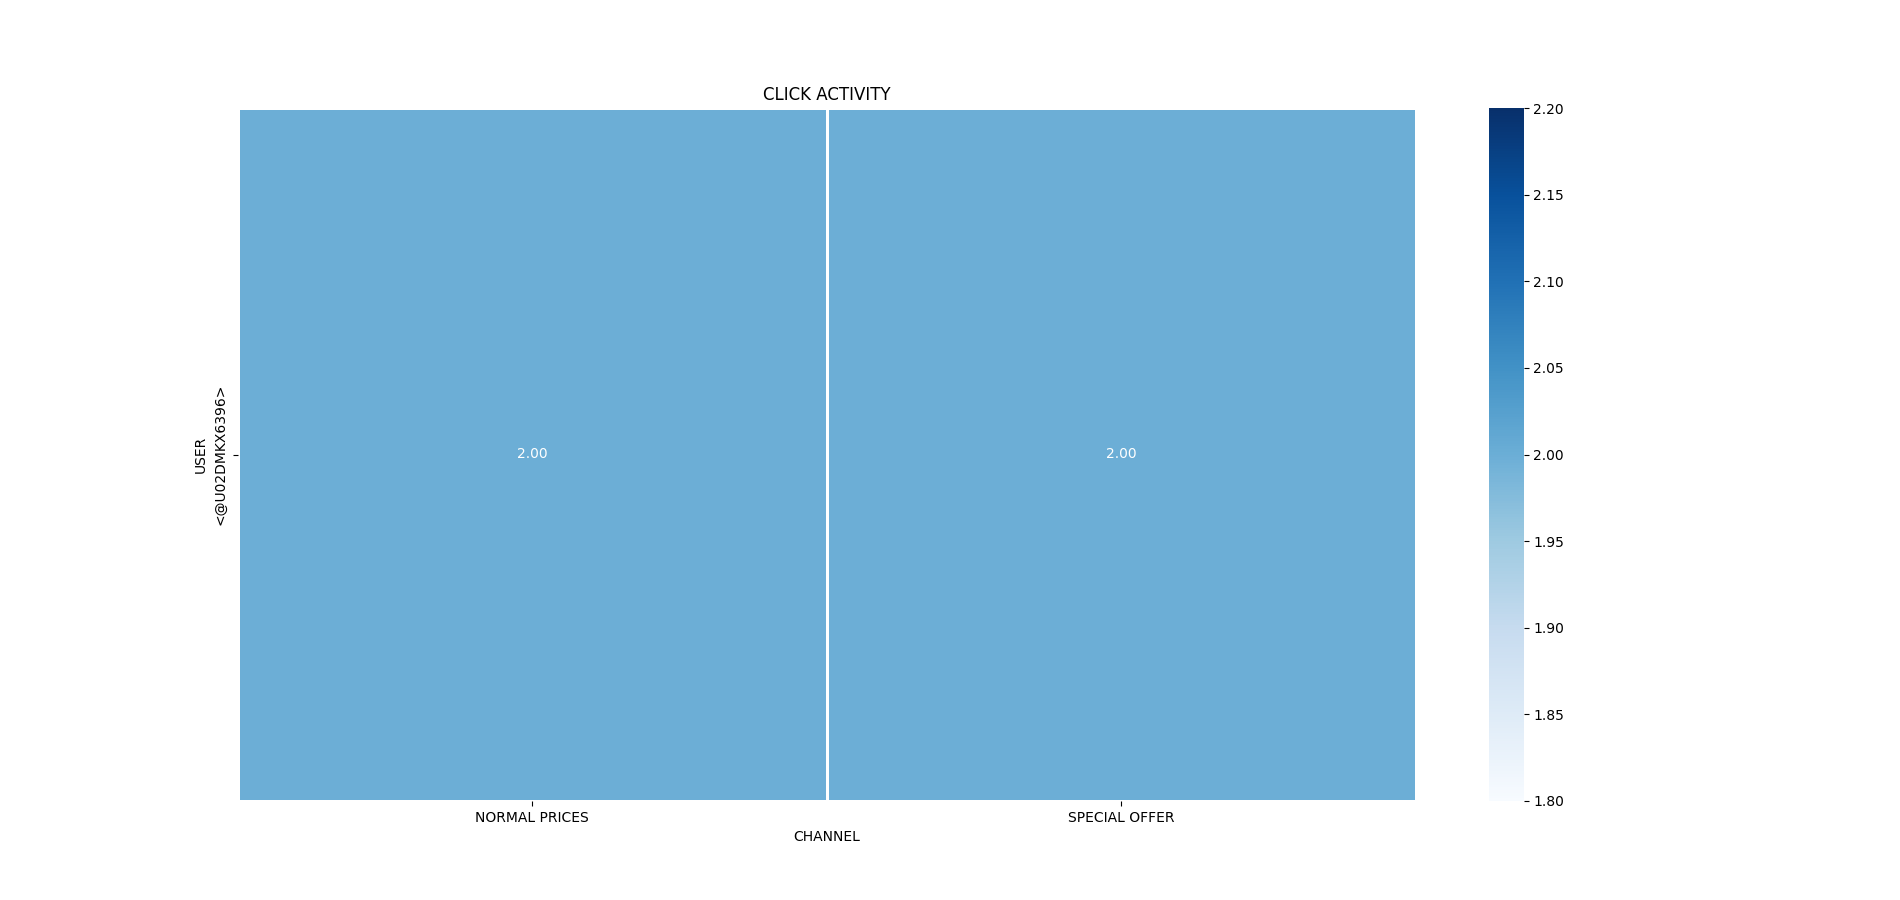
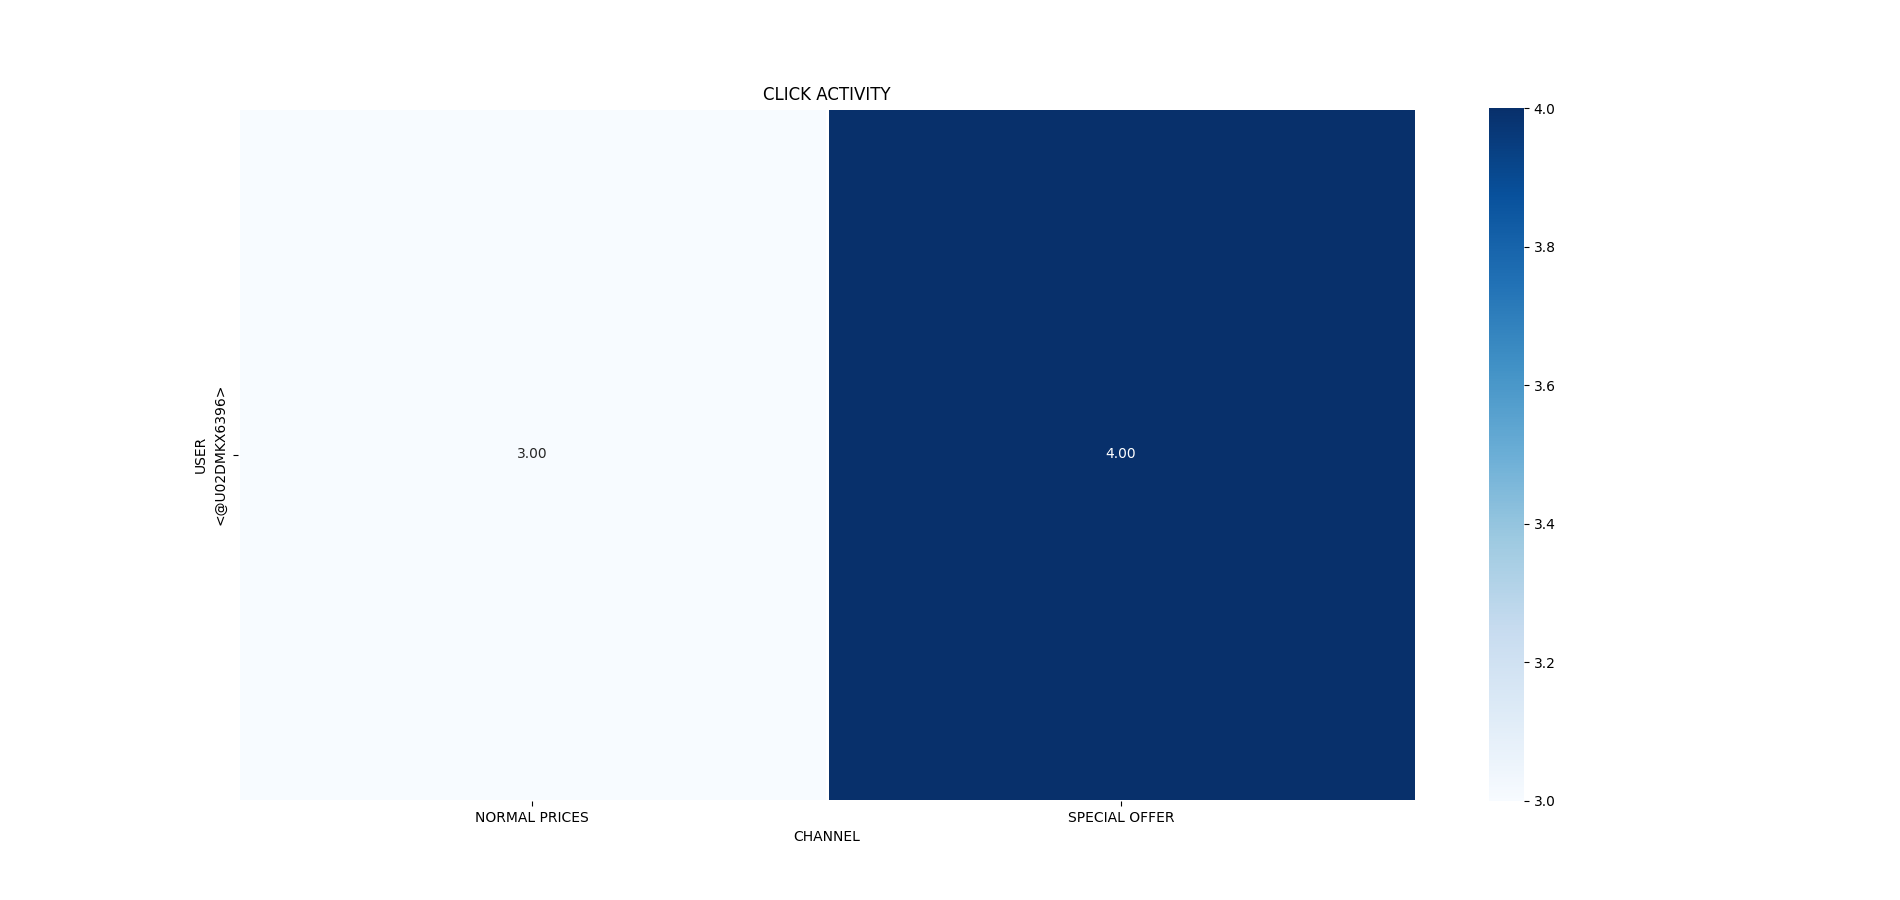
@Ioannis E. Kommas

diff --git a/main.py b/main.py
@@ -85,10 +85,6 @@ def handle_submission(ack, body, client, view, logger, ):
     try:
         # get user name
         user_info = slack_getters.get_modal_user_details(body, client)
-        start_process_time_modal_button_triggered_barcode_generator = time.process_time()
-        start_performance_time_modal_button_triggered_barcode_generator = time.perf_counter()
-        print(
-            f"🟢 Button Triggered on Home Page: Barcode Generator 💭 || By: {user_info['user']['profile'].get('display_name')} || TimeStamp: {datetime.now().strftime('%d/%m/%y %H:%M:%S')}")
         logger.info(body)
         # get keys from modal
         key = view['state'].get('values').keys()
@@ -142,19 +138,14 @@ def handle_submission(ack, body, client, view, logger, ):
         logger.error(f"Error responding to 'first_button' button click: {e}")
         print(f"⭕ Error on Home Page: Barcode Generator Button 💭")
     finally:
+        # write data to sql
         user_id = f"<@{user_info['user'].get('id')}>"
         channel_id = "NORMAL PRICES"
         data_tuple = (user_id, channel_id)
         sql3_conn.insert_user_activity(data_tuple)
-        stop_process_time_modal_button_triggered_barcode_generator = time.process_time()
-        stop_performance_time_modal_button_triggered_barcode_generator = time.perf_counter()
-        final_process_time_modal_button_triggered_barcode_generator = stop_process_time_modal_button_triggered_barcode_generator - start_process_time_modal_button_triggered_barcode_generator
-        final_performance_time_modal_button_triggered_barcode_generator = stop_performance_time_modal_button_triggered_barcode_generator - start_performance_time_modal_button_triggered_barcode_generator
-        print(
-            f"🎉 END OF: Barcode Generator 💭 || By: {user_info['user']['profile'].get('display_name')} || TimeStamp: {datetime.now().strftime('%d/%m/%y %H:%M:%S')}")
-        print(
-            f"⌛ Performance Time: {round(final_performance_time_modal_button_triggered_barcode_generator, 2)} sec || Process Time: {round(final_process_time_modal_button_triggered_barcode_generator, 2)}")
 
+        # refresh home page
+        slack_getters.refresh_home_page(client, user_info)
 
 @app.view("modal_button_triggered_initialize_sql_settings")
 def handle_submission(ack, body, client, view, logger, ):
@@ -162,10 +153,6 @@ def handle_submission(ack, body, client, view, logger, ):
     try:
         # get user_name
         user_info_initialize_sql = slack_getters.get_modal_user_details(body, client)
-        start_process_time_modal_button_triggered_initialize_sql = time.process_time()
-        start_performance_time_modal_button_triggered_initialize_sql = time.perf_counter()
-        print(
-            f"🟢 Button Triggered on Home Page: Initialize SQL Settings 💭 || By: {user_info_initialize_sql['user']['profile'].get('display_name')} || TimeStamp: {datetime.now().strftime('%d/%m/%y %H:%M:%S')}")
         logger.info(body)
 
         # get keys from modal
@@ -196,15 +183,9 @@ def handle_submission(ack, body, client, view, logger, ):
         logger.error(f"Error responding to 'first_button' button click: {e}")
         print(f"⭕ Error on Home Page: Initialize SQL Settings 💭")
     finally:
-        stop_process_time_modal_button_triggered_initialize_sql = time.process_time()
-        stop_performance_time_modal_button_triggered_initialize_sql = time.perf_counter()
-        final_process_time_modal_button_triggered_initialize_sql = stop_process_time_modal_button_triggered_initialize_sql - start_process_time_modal_button_triggered_initialize_sql
-        final_performance_time_modal_button_triggered_initialize_sql = stop_performance_time_modal_button_triggered_initialize_sql - start_performance_time_modal_button_triggered_initialize_sql
-        print(
-            f"🎉 END OF: Initialize SQL Settings 💭 || By: {user_info_initialize_sql['user']['profile'].get('display_name')} || TimeStamp: {datetime.now().strftime('%d/%m/%y %H:%M:%S')}")
-        print(
-            f"⌛ Performance Time: {round(final_performance_time_modal_button_triggered_initialize_sql, 2)} sec || Process Time: {round(final_process_time_modal_button_triggered_initialize_sql, 2)}")
 
+        # refresh home page
+        slack_getters.refresh_home_page(client, user_info_initialize_sql)
 
 @app.view("modal_button_triggered_special_offer")
 def handle_submission(ack, body, client, view, logger, ):
@@ -212,10 +193,6 @@ def handle_submission(ack, body, client, view, logger, ):
     try:
         # get user_name
         user_info_special_offer = slack_getters.get_modal_user_details(body, client)
-        start_process_time_modal_button_triggered_special_offer = time.process_time()
-        start_performance_time_modal_button_triggered_special_offer = time.perf_counter()
-        print(
-            f"🟢 Button Triggered on Home Page: Special Offer 💭 || By: {user_info_special_offer['user']['profile'].get('display_name')} || TimeStamp: {datetime.now().strftime('%d/%m/%y %H:%M:%S')}")
         logger.info(body)
 
         # get keys from modal
@@ -249,18 +226,14 @@ def handle_submission(ack, body, client, view, logger, ):
         logger.error(f"Error responding to 'first_button' button click: {e}")
         print(f"⭕ Error on Home Page: Special Offer 💭")
     finally:
+        # write data to sql
         user_id = f"<@{user_info_special_offer['user'].get('id')}>"
         channel_id = "SPECIAL OFFER"
         data_tuple = (user_id, channel_id)
         sql3_conn.insert_user_activity(data_tuple)
-        stop_process_time_modal_button_triggered_special_offer = time.process_time()
-        stop_performance_time_modal_button_triggered_special_offer = time.perf_counter()
-        final_process_time_modal_button_triggered_special_offer = stop_process_time_modal_button_triggered_special_offer - start_process_time_modal_button_triggered_special_offer
-        final_performance_time_modal_button_triggered_special_offer = stop_performance_time_modal_button_triggered_special_offer - start_performance_time_modal_button_triggered_special_offer
-        print(
-            f"🎉 END OF: Special Offer 💭 || By: {user_info_special_offer['user']['profile'].get('display_name')} || TimeStamp: {datetime.now().strftime('%d/%m/%y %H:%M:%S')}")
-        print(
-            f"⌛ Performance Time: {round(final_performance_time_modal_button_triggered_special_offer, 2)} sec || Process Time: {round(final_process_time_modal_button_triggered_special_offer, 2)}")
+
+        # refresh home page
+        slack_getters.refresh_home_page(client, user_info_special_offer)
 
 
 api = FastAPI()

diff --git a/app/slack_home_page.py b/app/slack_home_page.py
@@ -101,23 +101,20 @@ def event(user_info, sql_status, activity):
         ]
     }
 
-    image = {
-                "type": "image",
-                "title": {
-                    "type": "plain_text",
-                    "text": "image1",
-                    "emoji": True
-                },
-                "image_url": "https://api.slack.com/img/blocks/bkb_template_images/onboardingComplex.jpg",
-                "alt_text": "image1"
-            },
+    activity_section = {
+        "type": "section",
+        "text": {
+            "type": "mrkdwn",
+            "text": f'{activity.pivot("USER", "CHANNEL", "TIMES")}'
+        },
+
+    }
 
     if user_info['user'].get('is_admin'):
         if sql_status:
             blocks = [basic_user_info, divider, entersoft_sql_section, entersoft_sql_action, divider]
         else:
-            blocks = [basic_user_info, divider, barcode_generator_section, barcode_generator_action, divider,
-                      activity_section]
+            blocks = [basic_user_info, divider, barcode_generator_section, barcode_generator_action, divider, activity_section]
         return {
             "type": "home",
             "blocks": blocks

diff --git a/app/slack_getters.py b/app/slack_getters.py
@@ -1,5 +1,8 @@
 #  Copyright (c) Ioannis E. Kommas 2022. All Rights Reserved
+from asyncio.log import logger
 
+from private import sql3_conn
+from app import slack_home_page
 def get_user_details(event, client):
     user_id = event["user"]
     try:
@@ -30,3 +33,13 @@ def get_modal_user_details(body, client):
         # profile.get('status_emoji')
     except Exception as e:
         print(e)
+
+def refresh_home_page(client, user):
+    # refresh home page
+    entersoft_id = sql3_conn.main()
+    try:
+        client.views_publish(
+            user_id=user["user"].get('id'),
+            view=slack_home_page.event(user, entersoft_id, sql3_conn.read_activity()))
+    except Exception as e:
+        logger.error(f"Error publishing view to Home Tab: {e}")
